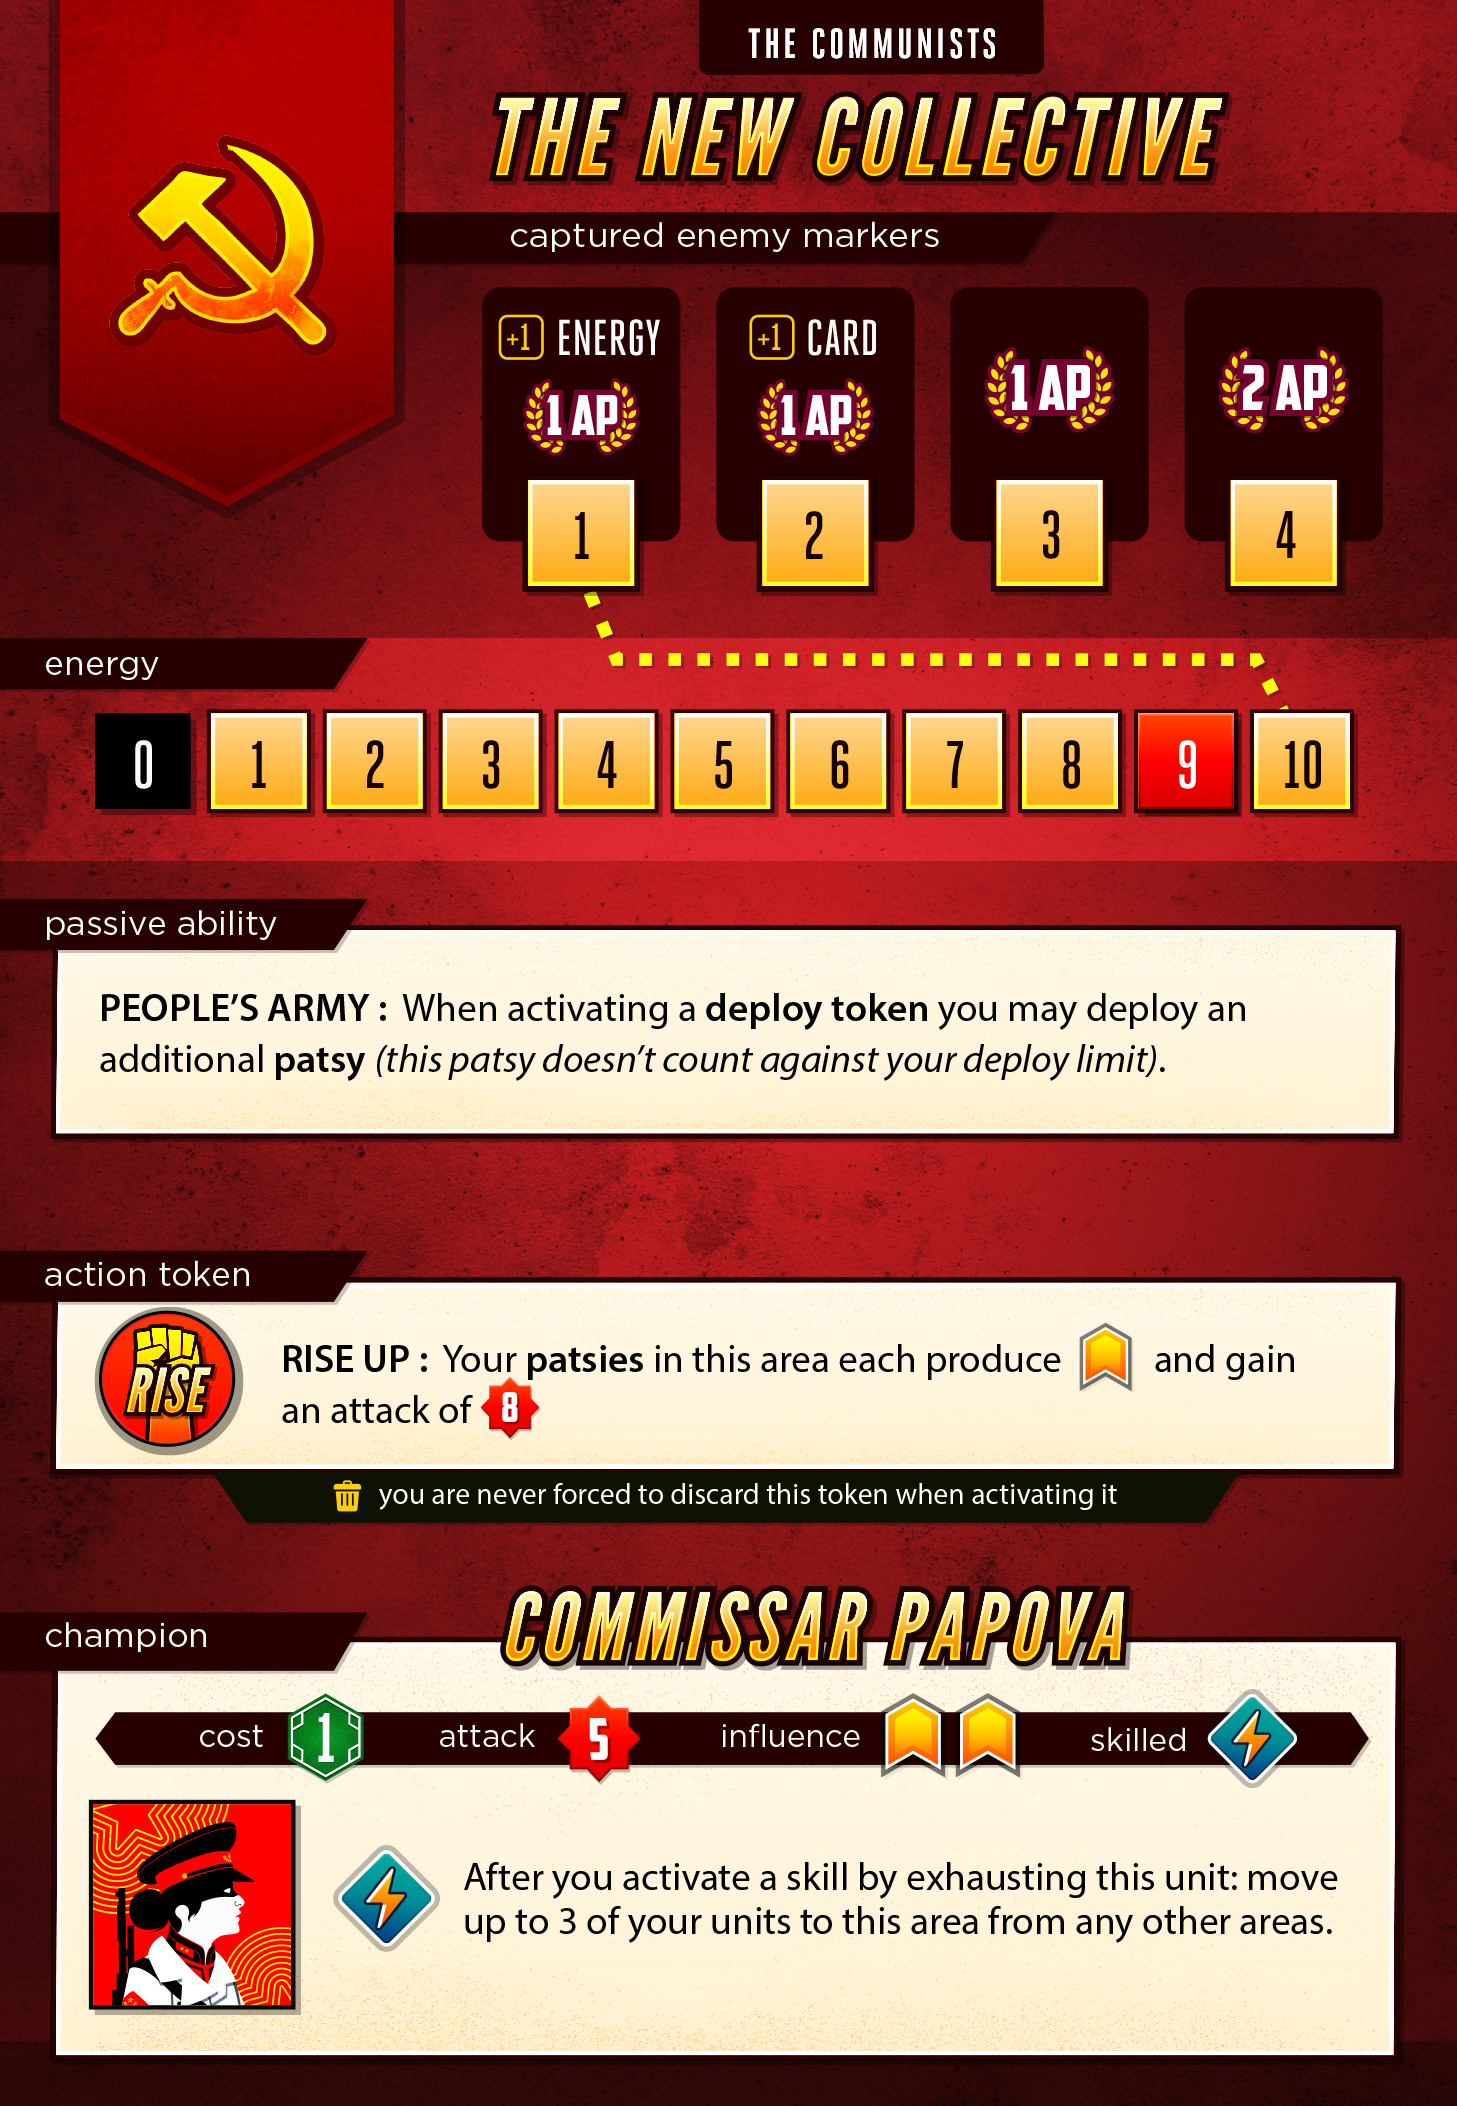
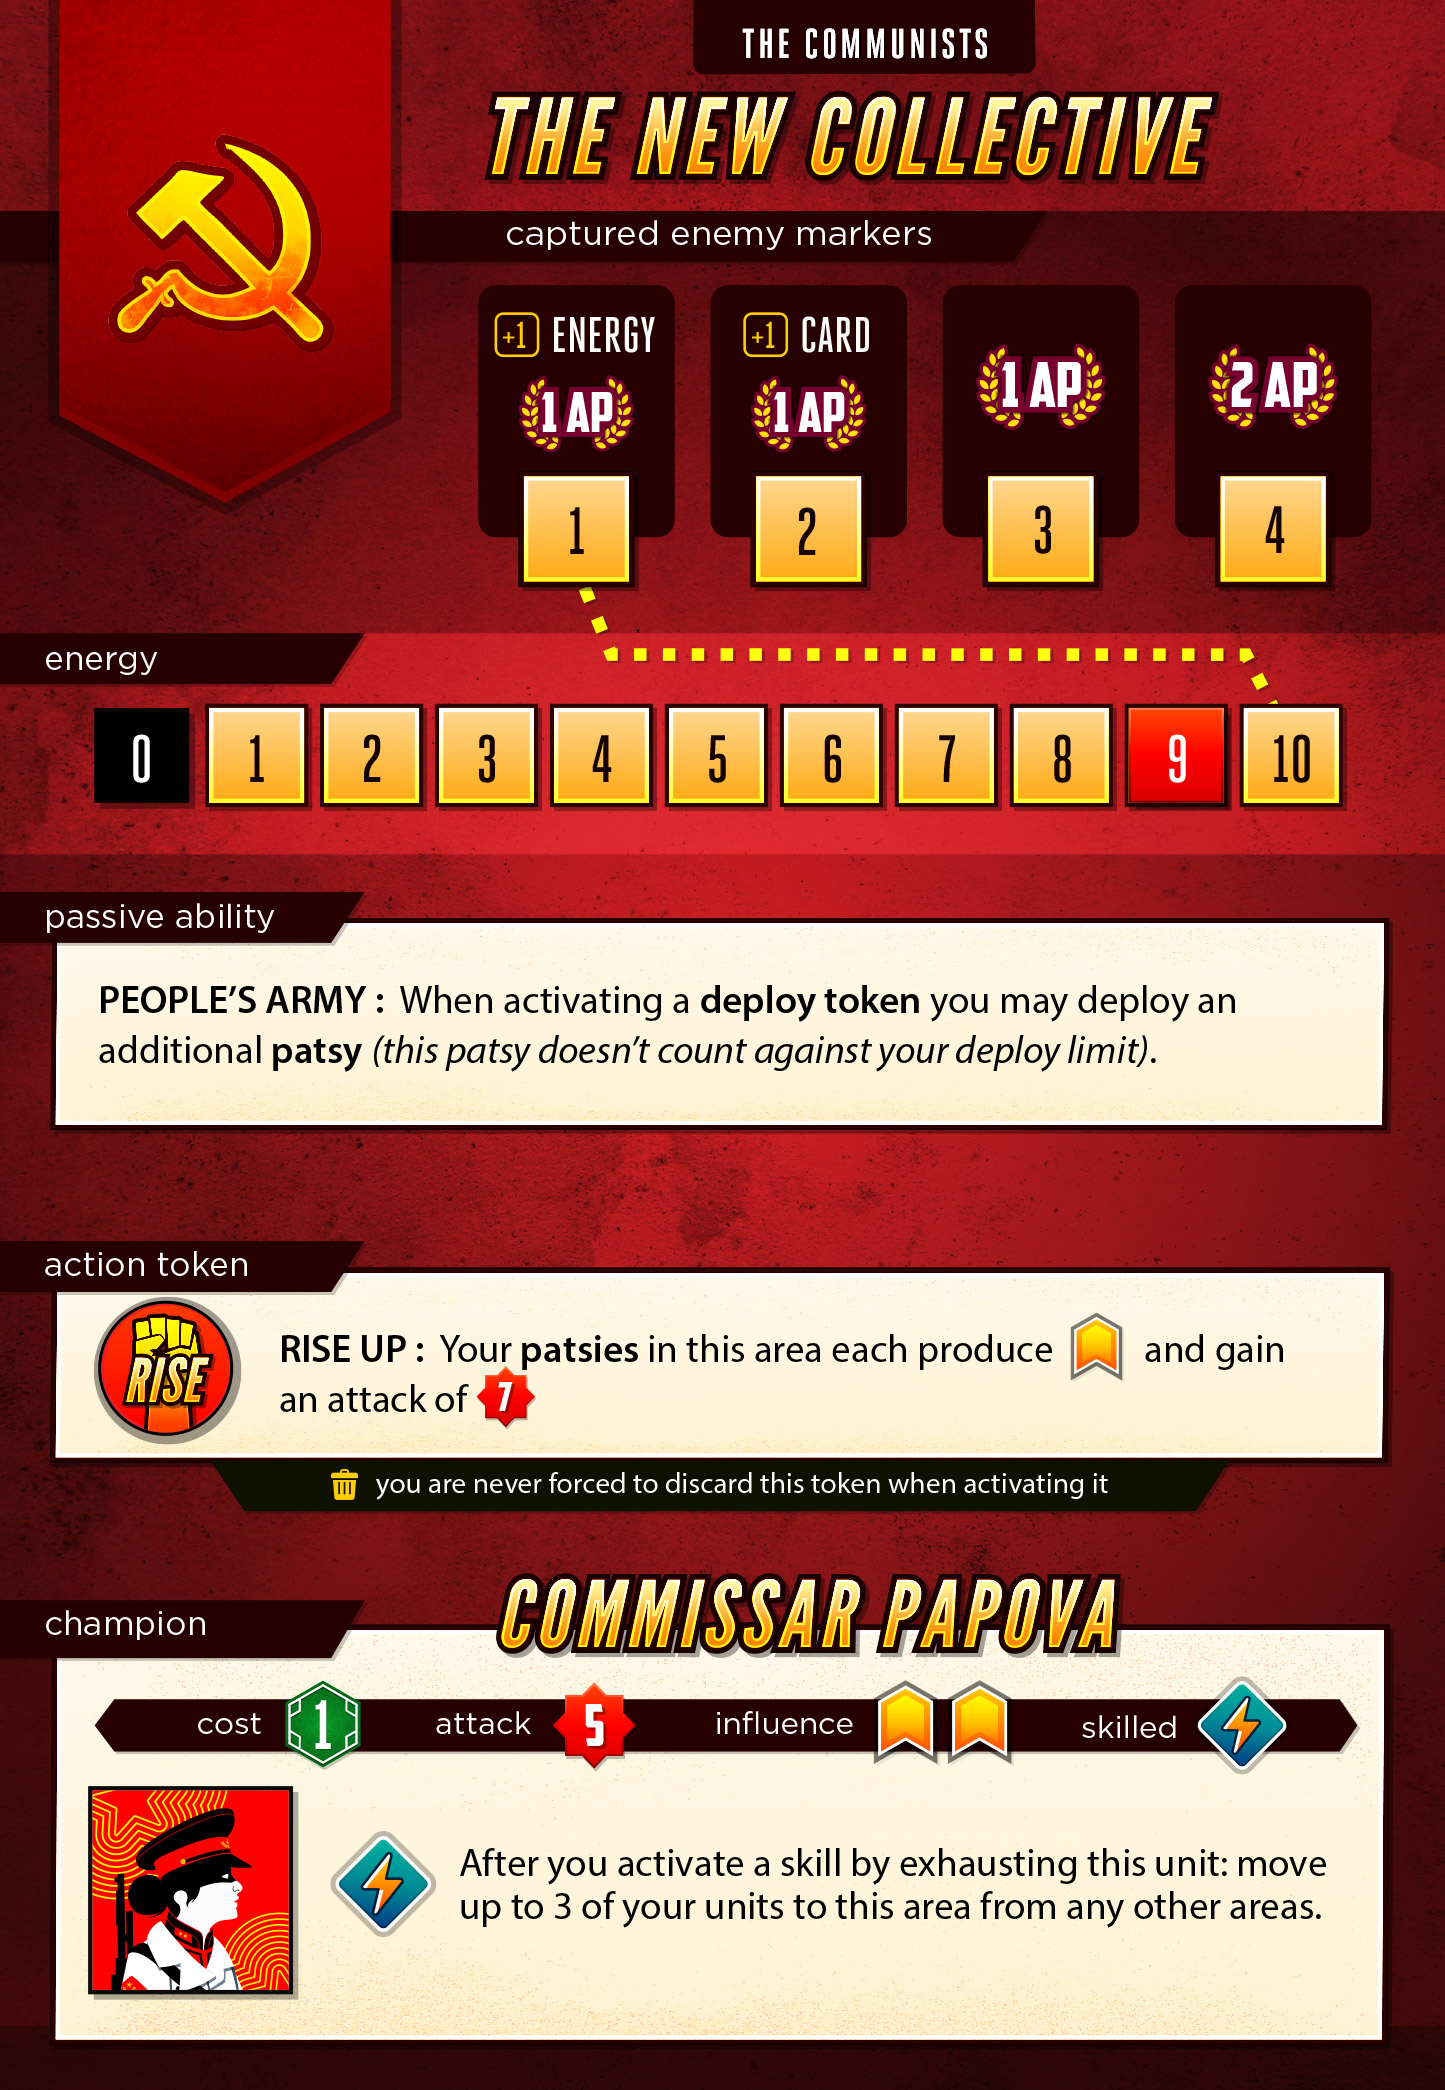
COMMIES: change rise attack value from 8 -> 7

diff --git a/server/classes/factions/Commies.js b/server/classes/factions/Commies.js
@@ -19,7 +19,7 @@ class Commies extends Faction {
         this.data.risePatsies = 0; // how many bonus patsies to deploy with our ride token
         this.data.bonusDeploy = { type: 'patsy', count : 1 };
         this.data.focusDescription = "Have high influence in areas";
-        this.data.riseAttackValue = 8;
+        this.data.riseAttackValue = 7;
 
         // tokens
         this.tokens['rise-up'] = {
